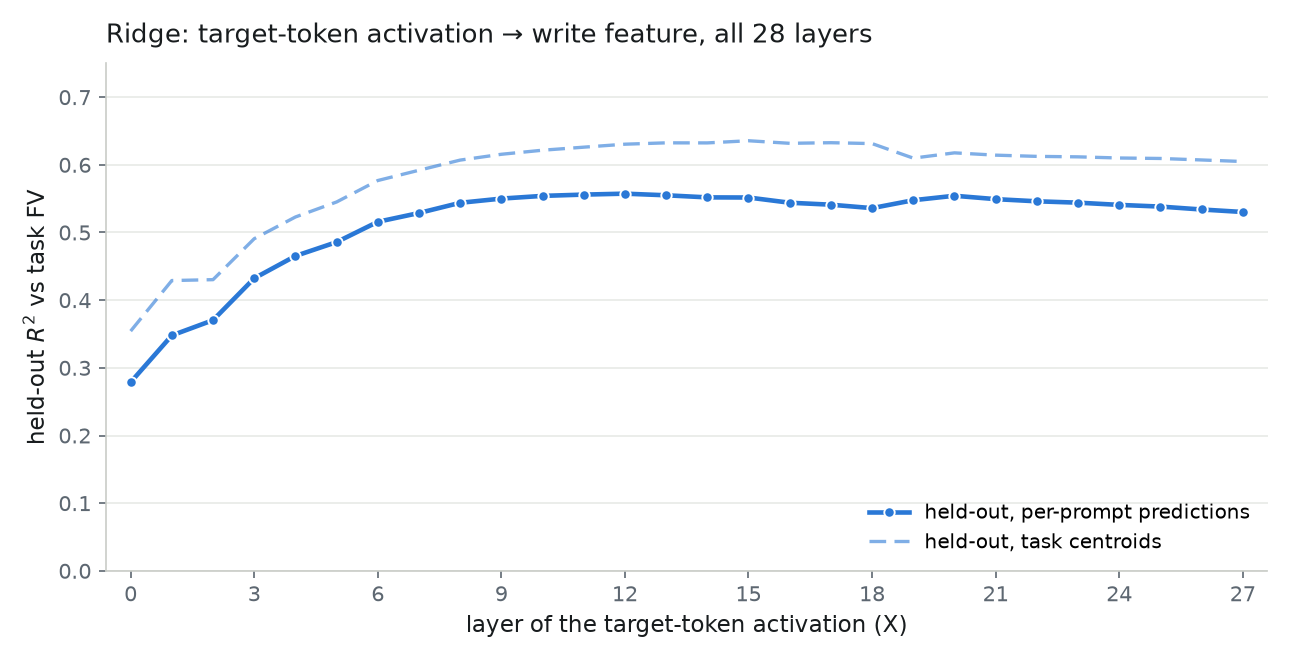
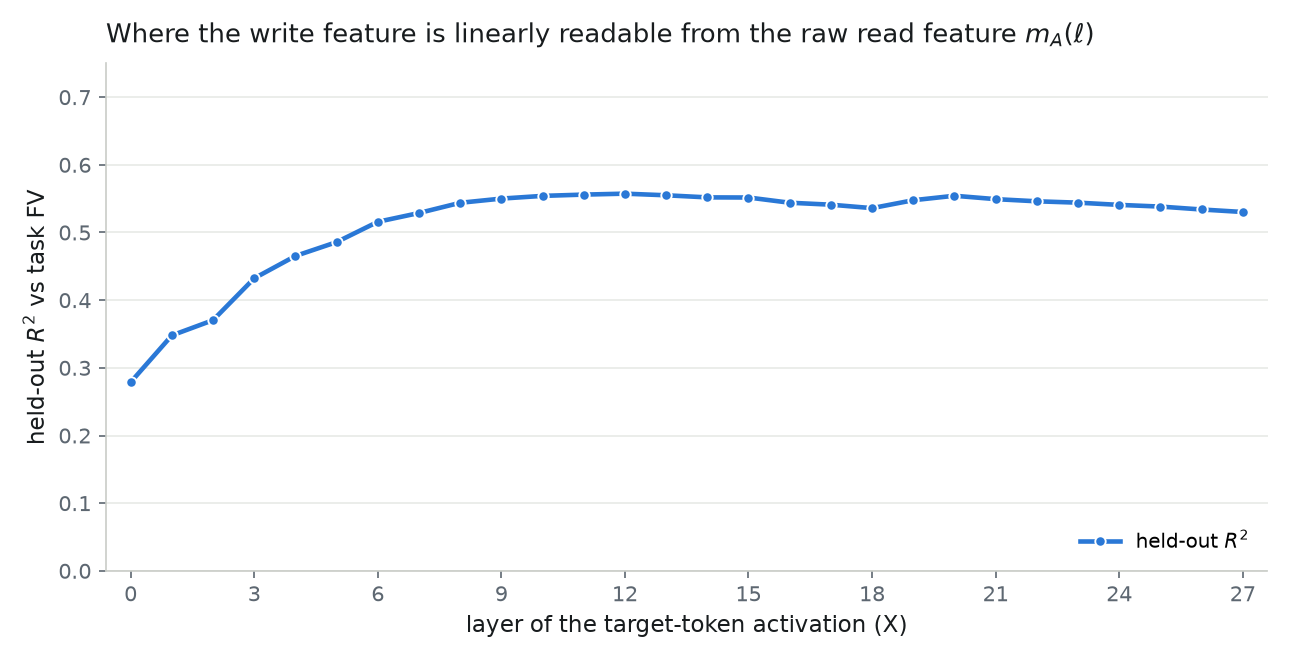
App E: centroid section removed; layer-sweep figure shows the held-out curve only

diff --git a/src/eval_scripts/plot_ridge_bankA_presentation.py b/src/eval_scripts/plot_ridge_bankA_presentation.py
@@ -29,16 +29,14 @@ BLUE, INK, MUTED = "#2a78d6", "#181c1e", "#5d6771"
 fig, ax = plt.subplots(figsize=(8.6, 4.4), dpi=150)
 fig.patch.set_facecolor("white"); ax.set_facecolor("white")
 ax.plot(L, y, color=BLUE, lw=2.2, marker="o", ms=5, mfc=BLUE, mec="white", mew=0.9,
-        zorder=3, label="held-out, per-prompt predictions")
-ax.plot(L, yc, color=BLUE, lw=1.6, ls=(0, (5, 2.5)), alpha=0.6, zorder=2,
-        label="held-out, task centroids")
+        zorder=3, label="held-out $R^2$")
 pk = max(range(len(L)), key=lambda i: y[i])
 ax.set_xlim(-0.6, 27.6)
 ax.set_ylim(0, 0.75)
 ax.set_xticks(range(0, 28, 3))
 ax.set_xlabel("layer of the target-token activation (X)", color=INK, fontsize=11)
 ax.set_ylabel("held-out $R^2$ vs task FV", color=INK, fontsize=11)
-ax.set_title("Ridge: target-token activation → write feature, all 28 layers",
+ax.set_title("Where the write feature is linearly readable from the raw read feature $m_A(\\ell)$",
              fontsize=12.5, color=INK, loc="left", pad=10)
 ax.legend(loc="lower right", fontsize=9.5, frameon=False)
 ax.grid(axis="y", color="#e8eae6", lw=0.8, zorder=0)

diff --git a/write_up/read_and_write_features_for_in_context_learning_paper_draft.md b/write_up/read_and_write_features_for_in_context_learning_paper_draft.md
@@ -461,42 +461,27 @@ Findings:
 
 ## E. The read → write linear map in detail
 
-**Method (Claim 6 fit).**
+**Method**
 
-- Input: the task-unique part $u_A$ of the read feature (mean of the carrier-projected L5–7
-  task means). Target: the task's function vector $v_A$ (mean of its 150 per-prompt FVs).
+- Input: the task-unique part $u_A$ of the read feature (mean of the L5–7
+  acitvations projections along the shared carrier direction removed). Target: the task's function vector $v_A$
 - One row per task: 55 train tasks fit the map, 14 held-out tasks score it. Both sides are
   centred on the train means, so the shared carrier drops out of the input.
-- Map: ridge regression in dual form, $\lambda$ chosen by leave-one-out cross-validation on
-  the train tasks (it picks the smallest value on the grid, 0.01, i.e. minimum-norm
-  interpolation generalises best).
+- Map: ridge regression with $\lambda$ chosen by leave-one-out cross-validation on
+  the train tasks (0.01 was best).
 - Score: pooled held-out $R^2$ with the held-out mean FV as reference, and per-task
-  cos(predicted, true). Source: `understanding_read_write_linear_map/meanresid_map/`
-  (`claim6_meanresid_map.py`, `claim6_meanresid_robustness.py`).
+  cos(predicted, true)
 
-**Split robustness.** Over 10 random 55/14 task splits the held-out $R^2$ of the ridge is
-0.60 ± 0.06 (range 0.50–0.68); the canonical split's 0.64 sits inside that range. The
+**Test-Train Split robustness:** Over 10 random 55/14 task splits the held-out $R^2$ of the ridge is
+0.60 ± 0.06 (range 0.50–0.68). The
 rotation + scalar map of Appendix H tracks it at 0.57 ± 0.05 (canonical 0.59).
 
 ![Held-out R² across task splits](../results/69_task_run/understanding_read_write_linear_map/meanresid_map/seed_r2.png)
 
 **Which tasks transfer.** Averaging each task's cos(predicted, true FV) over the random
-splits in which it was held out (63 of 69 tasks are held out at least once): median 0.89.
-The weakest are classification-style tasks — ag_news 0.61, natural_manmade 0.73,
-concrete_abstract 0.73, person-instrument 0.75 — the same family whose read features are
-least aligned with their own FVs (Appendix H); no task falls below 0.6.
-
-**The map places task centroids, not individual prompts.** Scored against the *per-prompt*
-FVs $v^j_A$ of the 14 held-out tasks (held-out-mean reference):
-
-- map applied to each prompt's own read feature $u^j_A$: $R^2$ 0.40;
-- map applied to the task centroid $u_A$ (one prediction per task): 0.46;
-- oracle, each prompt's own task-mean FV (leave-one-prompt-out): 0.71;
-- train-mean FV for every prompt: −0.06.
-
-The centroid prediction recovers 65% of what a perfect centroid predictor could; feeding the
-map per-prompt inputs lowers the score, so the within-task variation of the read feature is
-noise to this map, not signal.
+splits in which it was held out: median 0.89.
+The weakest are classification-style tasks: ag_news 0.61, natural_manmade 0.73,
+concrete_abstract 0.73, person-instrument 0.75, which are the same family whose read features are least aligned with their own FVs (Appendix H).
 
 **Layer sweep with the raw per-layer read feature.** Regressing from the raw task mean
 $m_A(\ell)$ instead (per-prompt X, all 28 layers) shows where task identity is linearly
